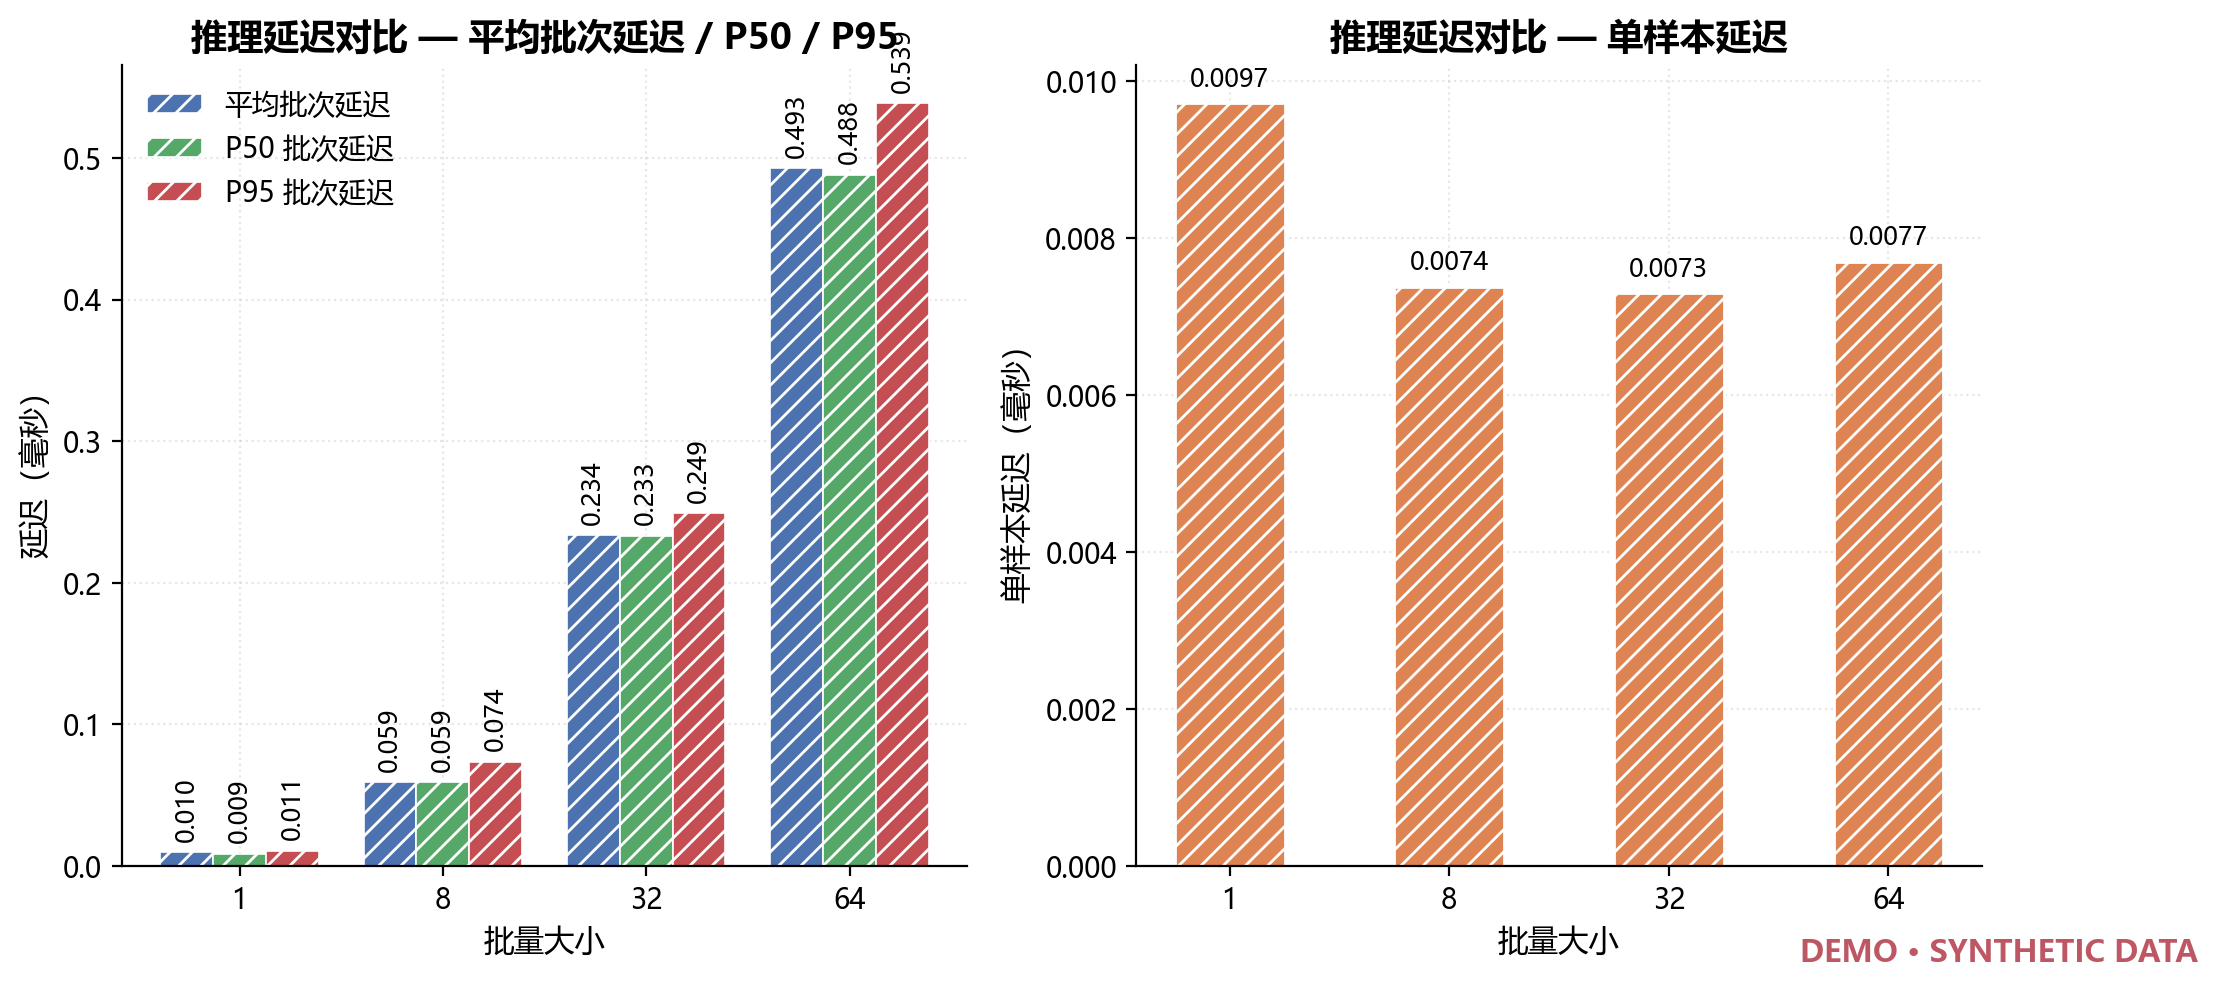
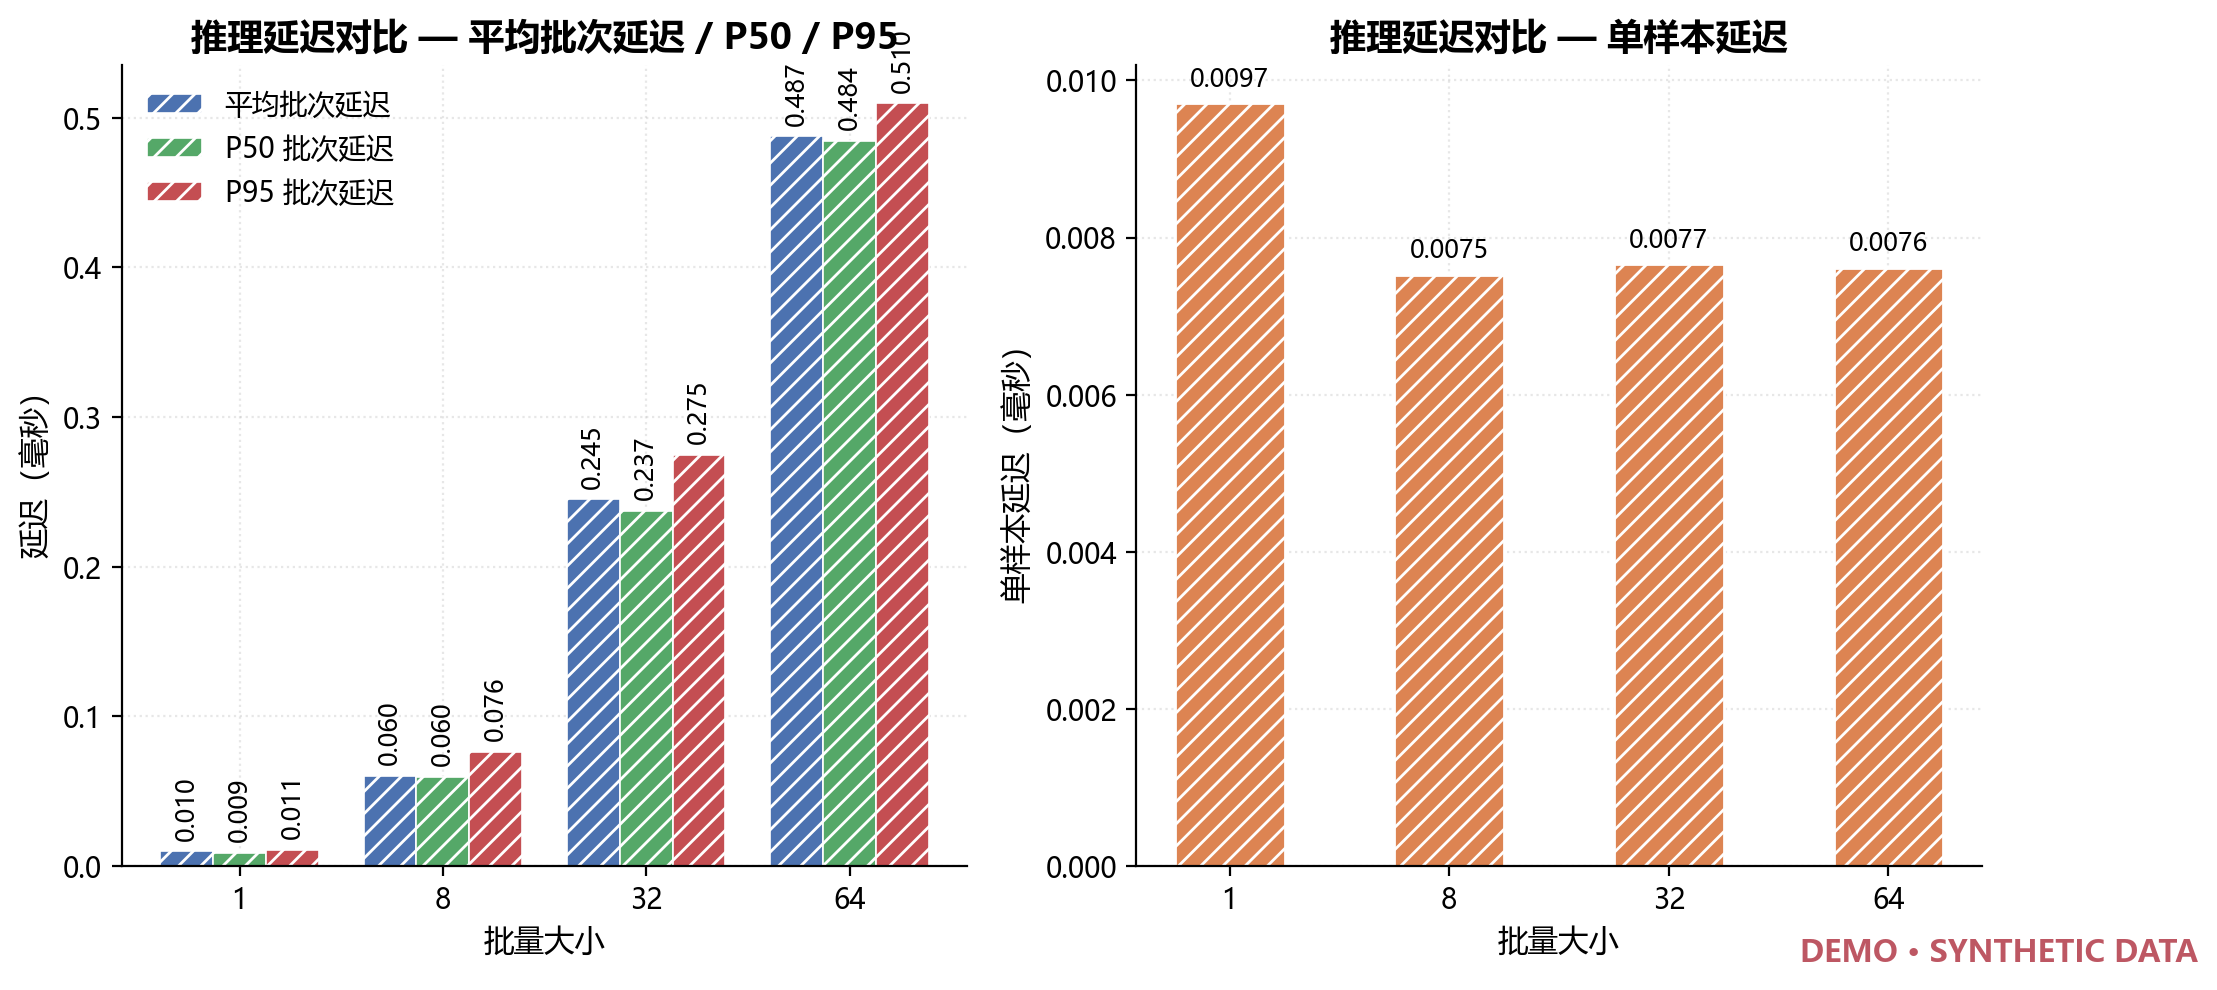
支持无 meta.json 的权重目录，词表大小改从权重推断
v1/v2 期的 akt_*、dkt_*、synth_* 共 23 个目录只有 model.pt 与 metrics.json，
没有知识点词表 sidecar。此前必须手工填 n_skills，填错要么加载失败、
要么形状恰好相同而语义错位。

- 适配器新增 _checkpoint_n_skills()：从 skill_emb.weight 形状读出词表大小
  （akt_forget_s2026 → 149，synth_akt_forget_s2026 → 60）。
- 配置写了 n_skills 就与权重比对，不一致直接报错。
- skill_map 的密集 id 越界时提前失败，不等到推理才炸。
- 新增 3 项测试；AKT 真实权重跑通（is_mock=False）。
- 文档补 §4.2 推断规则与 §8.4 AKT 实测；README 测试数更新为 286。
- 重新生成验收证据与交付 ZIP（140 文件，解压验证 5 项通过）。

diff --git a/examples/kt_forgetting_plugin.py b/examples/kt_forgetting_plugin.py
@@ -158,7 +158,7 @@ class KtForgettingModel:
     ``data``                    否       覆盖 metrics.json 记录的数据路径（跨机器迁移）
     ``backend``                 否       ``auto``（默认）/ ``dkt`` / ``bkt``
     ``skill_map``               否       ``{框架知识点标签: 模型密集 id}``，显式映射
-    ``n_skills``                否       词表大小；仅当实验目录没有 meta.json 时必填
+    ``n_skills``                否       词表大小；缺 meta.json 时默认从权重推断，填了则校验一致性
     ``multi_skill_policy``      否       ``error``（默认）/ ``mean`` / ``first``
     ``allow_order_only_time``   否       默认 false；true 时把无时间数据当作全零间隔
     ``allow_untrained``         否       默认 false；仅用于没有权重时验证本适配器通路，
@@ -289,13 +289,22 @@ class KtForgettingModel:
                 raise ModelValidationError(f"加载 {self.tag} 失败: {exc}") from exc
         else:
             # 少数实验目录只提交了 model.pt 与 metrics.json，没有 meta.json 词表
-            # （例如 v1/v2 的 akt_*、dkt_*、synth_*）。权重是真实的，但必须由调用方
-            # 给出 skill_map 与 n_skills 才能把输入映射进模型。
-            if not (self.skill_map and self.n_skills):
+            # （例如 v1/v2 的 akt_*、dkt_*、synth_*）。权重是真实的，但没有词表就
+            # 不知道原始 skill_id 对应哪个密集 id，必须由调用方给出 skill_map；
+            # 词表大小可以从权重里的 skill_emb 形状推断，不必手工填写。
+            if not self.skill_map:
                 raise ModelValidationError(
-                    f"{run_dir} 有 model.pt 但缺少 meta.json 词表。请在配置里同时提供 "
-                    "skill_map（知识点标签 → 密集 id）与 n_skills（词表大小），"
+                    f"{run_dir} 有 model.pt 但缺少 meta.json 词表。请提供 skill_map"
+                    "（知识点标签 → 密集 id）；n_skills 可省略，将从权重推断，"
                     "或改用自带 meta.json 的 tag（v3/v4 系列）"
+                )
+            inferred = self._checkpoint_n_skills(weights)
+            if self.n_skills is None:
+                self.n_skills = inferred
+            else:
+                _require(
+                    self.n_skills == inferred,
+                    f"配置的 n_skills={self.n_skills} 与权重里的词表大小 {inferred} 不一致",
                 )
             model, run_args, meta = self._build_from_run_dir(run_dir, untrained=False)
 
@@ -307,6 +316,7 @@ class KtForgettingModel:
                 )
             except Exception as exc:
                 raise ModelValidationError(f"加载温度校准失败: {exc}") from exc
+        self._validate_skill_map(int(meta["n_skills"]))
         self._model = model
         self._meta = meta
         self._backend = "dkt"
@@ -373,6 +383,36 @@ class KtForgettingModel:
                 raise ModelValidationError(f"加载 {run_dir / 'model.pt'} 失败: {exc}") from exc
             model.eval()
         return model, run_args, meta
+
+    def _checkpoint_n_skills(self, weights: Path) -> int:
+        """从权重里的知识点嵌入形状读出词表大小。
+
+        没有 ``meta.json`` 时这是唯一可靠的信息来源——按配置猜 n_skills 一旦猜错，
+        加载权重会直接报形状不匹配，或者更糟：恰好同形状而语义错位。
+        """
+        try:
+            state = self._torch.load(weights, map_location="cpu", weights_only=True)
+        except Exception as exc:
+            raise ModelValidationError(f"无法读取权重 {weights}: {exc}") from exc
+        _require(isinstance(state, dict), f"{weights} 不是 state_dict")
+        for key in ("skill_emb.weight", "skill_embedding.weight", "skills.weight"):
+            tensor = state.get(key)
+            if tensor is not None and getattr(tensor, "ndim", 0) == 2:
+                return int(tensor.shape[0])
+        raise ModelValidationError(
+            f"无法从 {weights} 推断词表大小（未找到 skill_emb.weight 等二维嵌入）；"
+            "请在配置里显式提供 n_skills"
+        )
+
+    def _validate_skill_map(self, n_skills: int) -> None:
+        if not self.skill_map:
+            return
+        illegal = {key: value for key, value in self.skill_map.items()
+                   if not 0 <= value < n_skills}
+        _require(
+            not illegal,
+            f"skill_map 中存在超出词表范围 0..{n_skills - 1} 的密集 id: {illegal}",
+        )
 
     @staticmethod
     def _read_json(path: Path, *, required: bool) -> dict:

diff --git a/tests/test_kt_forgetting_plugin.py b/tests/test_kt_forgetting_plugin.py
@@ -309,15 +309,46 @@ def test_untrained_flag_forces_mock_marking(tmp_path):
 
 
 @requires_repo
-def test_weight_directory_without_meta_needs_skill_map_and_size(tmp_path):
-    """有真实权重但没有 meta.json 时，必须由调用方补 skill_map + n_skills。"""
+def test_weight_directory_without_meta_needs_skill_map(tmp_path):
+    """有真实权重但没有 meta.json 时，必须由调用方补 skill_map。"""
     make_run_dir(tmp_path, with_meta=False, with_weights=True)
     base = {"repo": str(REPO), "tag": "synthetic_tag", "root": str(tmp_path / "exp"),
             "backend": "dkt"}
-    with pytest.raises(ModelValidationError, match="meta.json"):
+    with pytest.raises(ModelValidationError, match="skill_map"):
         KtForgettingModel(base)
-    with pytest.raises(ModelValidationError, match="meta.json"):
-        KtForgettingModel({**base, "skill_map": {"S000": 0}})  # 只有映射、没有词表大小
+
+
+@requires_repo
+def test_vocabulary_size_is_inferred_from_the_checkpoint():
+    """akt_* 没有 meta.json，但权重里的 skill_emb 形状能确定词表大小。"""
+    model = KtForgettingModel({
+        "repo": str(REPO), "tag": "akt_forget_s2026", "backend": "dkt",
+        "skill_map": {"S000": 0},
+    })
+    assert model.n_skills == 149
+    assert model.is_mock is False
+    assert "(untrained)" not in model.name
+    probability = model.predict([request((), record_id="a1")])[0].probability
+    assert 0.0 <= probability <= 1.0
+
+
+@requires_repo
+def test_declared_n_skills_must_match_the_checkpoint():
+    """配置写了 n_skills 就与权重比对，不一致必须报错而不是照单全收。"""
+    with pytest.raises(ModelValidationError, match="不一致"):
+        KtForgettingModel({
+            "repo": str(REPO), "tag": "akt_forget_s2026", "backend": "dkt",
+            "skill_map": {"S000": 0}, "n_skills": 30,
+        })
+
+
+@requires_repo
+def test_skill_map_beyond_the_vocabulary_is_rejected():
+    with pytest.raises(ModelValidationError, match="超出词表范围"):
+        KtForgettingModel({
+            "repo": str(REPO), "tag": "v4_controlled_dkt_forget_s2026", "backend": "dkt",
+            "skill_map": {"S000": 0, "S999": 40},
+        })
 
 
 @requires_repo

diff --git a/docs/KT_FORGETTING_INTEGRATION.md b/docs/KT_FORGETTING_INTEGRATION.md
@@ -100,7 +100,7 @@ python scripts/build_kt_forgetting_vocab.py \
 | `data` | 否 | 覆盖 `metrics.json` 里记录的数据路径（跨机器迁移用） |
 | `backend` | 否 | `auto`（默认）/ `dkt` / `bkt`；`auto` 看目录里有没有 `bkt_params.json` |
 | `skill_map` | 否 | `{框架知识点标签: 模型密集 id}`；不提供时复用训练仓库的 `resolve_skill` 做解析 |
-| `n_skills` | 否 | 词表大小；**仅当实验目录没有 `meta.json` 时必填**（见 §4.2） |
+| `n_skills` | 否 | 词表大小；缺 `meta.json` 时默认从权重推断，填了则校验一致性（见 §4.2） |
 | `multi_skill_policy` | 否 | `error`（默认）/ `mean` / `first`，见 §6 |
 | `allow_order_only_time` | 否 | 默认 `false`，见 §2 |
 | `allow_untrained` | 否 | 默认 `false`；**仅用于没有权重时验证适配器通路**，启用后 `is_mock` 强制为 `true` |
@@ -152,11 +152,16 @@ python evaluate.py all --run-dir outputs/real_model \
 | --- | :-: | :-: | --- |
 | `v3_*`、`v4_*`（含 MOOCCube） | 有 | 有 | 直接加载，无需额外配置 |
 | `repro_v2_*` | 有 | 有 | 直接加载 |
-| `akt_*`、`dkt_*`、`synth_*`（v1/v2 期） | 有 | **无** | 必须同时提供 `skill_map` 与 `n_skills` |
+| `akt_*`、`dkt_*`、`synth_*`（v1/v2 期） | 有 | **无** | 必须提供 `skill_map`；`n_skills` 可省略 |
 
 后一类不是缺权重，而是缺**词表 sidecar**：模型结构可以按 `metrics.json` 的 `args`
 重建、权重可以加载，但没有 `meta.json` 就不知道原始 `skill_id` 对应哪个密集 id。
-适配器此时要求显式给出映射，而不是猜一个。错误信息会点名这两个字段。
+适配器此时要求显式给出映射，而不是猜一个。
+
+词表大小**不必手填**：适配器直接从权重里 `skill_emb.weight` 的形状读出
+（实测 `akt_forget_s2026` → 149，`synth_akt_forget_s2026` → 60）。
+如果配置里同时写了 `n_skills`，会与权重里的值比对，不一致直接报错——
+按配置猜词表大小一旦猜错，要么加载失败，要么更糟：形状恰好相同而语义错位。
 
 ## 5. 选哪个模型：优先中文线代（MOOCCube v4）
 
@@ -260,7 +265,18 @@ python main.py --model plugin \
 > 只反映「模型没有见过这份数据」，恰恰说明**合成数据不能用来评价模型**。
 > 要得到有意义的精度，必须换真实 held-out CSV。此夹具的唯一用途是验证接线。
 
-### 8.4 尚未完成
+### 8.4 AKT（真实权重，目录内没有 `meta.json`）
+
+`akt_forget_s2026` 只有 `model.pt` 与 `metrics.json`，用来验证 §4.2 的路径：
+
+| 项目 | 结果 |
+| --- | --- |
+| `model_name` | `kt-forgetting:akt:akt_forget_s2026` |
+| `is_mock` | **False** |
+| `n_skills` | 从权重推断为 **149** |
+| 间隔敏感性 | gap 0/1 天 → 0.9654，7/30 天 → 0.8203 |
+
+### 8.5 尚未完成
 
 - **真实 held-out 数据上的精度与遗忘有效性**：需要清洗后的 MOOCCube 作答 CSV（本机 `data/` 为空）。
 - **多知识点题目的聚合口径**：等训练组定义。

diff --git a/README.md b/README.md
@@ -9,7 +9,7 @@ python evaluate.py all --overwrite     # 一条命令跑完全部评估流程
 
 | 项目 | 实测结果 |
 | --- | --- |
-| 自动化测试 | **283 项通过 / 0 失败**（`python -m pytest -q`） |
+| 自动化测试 | **286 项通过 / 0 失败**（`python -m pytest -q`） |
 | 静态检查 | **通过**（`python -m ruff check .`） |
 | 集成验收 | **18 项全部通过**（`python scripts/acceptance_evaluation.py`） |
 | 生成图表 | **9 张** PNG，DPI 200 |
@@ -347,7 +347,7 @@ python evaluate.py metrics --help          # 每个子命令都有独立帮助
 ## 自动化测试与验收
 
 ```bash
-python -m pytest -q                      # 283 项通过
+python -m pytest -q                      # 286 项通过
 python -m ruff check .                   # 静态检查通过
 python scripts/acceptance_evaluation.py  # 18 项集成验收
 ```
@@ -467,6 +467,7 @@ python evaluate.py all --run-dir outputs/real_model \
 | --- | --- |
 | BKT | ✅ 真实 EM 拟合参数，`is_mock=False`，概率 0.284~0.766 |
 | DKT + 遗忘机制 | ✅ 真实权重，`is_mock=False`；间隔 0→365 天概率 0.8565→0.8422（单调不增） |
+| AKT + 遗忘机制 | ✅ 真实权重，`is_mock=False`；目录无 `meta.json`，词表大小从权重推断为 149 |
 | MOOCCube 中文线代 DKT | ✅ 端到端跑通，22 个中文章节词表，`evaluate.py all` 六步无跳过 |
 
 模块一的图谱是中文线性代数，而 ASSISTments（英文初中代数）与 EdNet（英语）题目域对不上。
@@ -510,7 +511,7 @@ knowledge_tracing_test/
 ├── io_utils.py                 # 鲁凯宁：原子写出与指纹
 ├── dataset_converters.py       # 鲁凯宁：ASSISTments / EdNet 转换器
 │
-├── tests/                      # 283 项自动化测试（含 kt-forgetting 适配 36 项）
+├── tests/                      # 286 项自动化测试（含 kt-forgetting 适配 39 项）
 ├── docs/                       # 全部设计、接口、指标与交付文档
 ├── scripts/                    # 环境安装、验收、打包、kt-forgetting 词表生成
 ├── evidence/                   # 验收证据（含 evidence/evaluation/）

diff --git a/docs/EVALUATION_TEST_REPORT.md b/docs/EVALUATION_TEST_REPORT.md
@@ -1,6 +1,6 @@
 # 鸿蒙智学 · 知识追踪模型评估报告
 
-评估模块版本 **1.0.0**，报告生成时间（UTC）**2026-10-17T05:58:41.001429+00:00**。本报告由 `evaluation/report_generator.py` 从实际运行产物自动生成，所有数值均可追溯到对应模块输出的 JSON / CSV 文件，没有人手工填入的实验数据。
+评估模块版本 **1.0.0**，报告生成时间（UTC）**2026-10-19T16:06:33.946753+00:00**。本报告由 `evaluation/report_generator.py` 从实际运行产物自动生成，所有数值均可追溯到对应模块输出的 JSON / CSV 文件，没有人手工填入的实验数据。
 
 ## 1. 测试任务概述
 
@@ -169,10 +169,10 @@
 
 | 批量大小 | 批次数 | 样本数 | 平均批次延迟(ms) | P50(ms) | P95(ms) | 单样本平均(ms) | 吞吐量(样本/秒) |
 | ---: | ---: | ---: | ---: | ---: | ---: | ---: | ---: |
-| 1 | 768 | 768 | 0.010 | 0.009 | 0.011 | 0.010 | 102932.5 |
-| 8 | 96 | 768 | 0.059 | 0.059 | 0.074 | 0.007 | 135483.2 |
-| 32 | 24 | 768 | 0.234 | 0.233 | 0.249 | 0.007 | 137042.5 |
-| 64 | 12 | 768 | 0.493 | 0.488 | 0.539 | 0.008 | 129909.7 |
+| 1 | 768 | 768 | 0.010 | 0.009 | 0.011 | 0.010 | 103005.7 |
+| 8 | 96 | 768 | 0.060 | 0.060 | 0.076 | 0.008 | 132814.5 |
+| 32 | 24 | 768 | 0.245 | 0.237 | 0.275 | 0.008 | 130581.2 |
+| 64 | 12 | 768 | 0.487 | 0.484 | 0.510 | 0.008 | 131288.8 |
 
 > 计时口径：批次延迟为单次 adapter.predict(batch) 的墙钟耗时（time.perf_counter）；单样本延迟为批次延迟除以该批次样本数；P50/P95 对批次延迟序列取线性插值百分位；吞吐量为被计时样本数除以被计时的总耗时。
 
@@ -261,8 +261,8 @@
 
 | 项目 | 数量 |
 | --- | ---: |
-| 用例总数 | 283 |
-| 通过 | 283 |
+| 用例总数 | 286 |
+| 通过 | 286 |
 | 失败 | 0 |
 | 错误 | 0 |
 | 跳过 | 0 |

diff --git a/evidence/evaluation/reports/evaluation_report.md b/evidence/evaluation/reports/evaluation_report.md
@@ -1,6 +1,6 @@
 # 鸿蒙智学 · 知识追踪模型评估报告
 
-评估模块版本 **1.0.0**，报告生成时间（UTC）**2026-10-17T05:58:40.947897+00:00**。本报告由 `evaluation/report_generator.py` 从实际运行产物自动生成，所有数值均可追溯到对应模块输出的 JSON / CSV 文件，没有人手工填入的实验数据。
+评估模块版本 **1.0.0**，报告生成时间（UTC）**2026-10-19T16:06:33.909851+00:00**。本报告由 `evaluation/report_generator.py` 从实际运行产物自动生成，所有数值均可追溯到对应模块输出的 JSON / CSV 文件，没有人手工填入的实验数据。
 
 ## 1. 测试任务概述
 
@@ -169,10 +169,10 @@
 
 | 批量大小 | 批次数 | 样本数 | 平均批次延迟(ms) | P50(ms) | P95(ms) | 单样本平均(ms) | 吞吐量(样本/秒) |
 | ---: | ---: | ---: | ---: | ---: | ---: | ---: | ---: |
-| 1 | 768 | 768 | 0.010 | 0.009 | 0.011 | 0.010 | 102932.5 |
-| 8 | 96 | 768 | 0.059 | 0.059 | 0.074 | 0.007 | 135483.2 |
-| 32 | 24 | 768 | 0.234 | 0.233 | 0.249 | 0.007 | 137042.5 |
-| 64 | 12 | 768 | 0.493 | 0.488 | 0.539 | 0.008 | 129909.7 |
+| 1 | 768 | 768 | 0.010 | 0.009 | 0.011 | 0.010 | 103005.7 |
+| 8 | 96 | 768 | 0.060 | 0.060 | 0.076 | 0.008 | 132814.5 |
+| 32 | 24 | 768 | 0.245 | 0.237 | 0.275 | 0.008 | 130581.2 |
+| 64 | 12 | 768 | 0.487 | 0.484 | 0.510 | 0.008 | 131288.8 |
 
 > 计时口径：批次延迟为单次 adapter.predict(batch) 的墙钟耗时（time.perf_counter）；单样本延迟为批次延迟除以该批次样本数；P50/P95 对批次延迟序列取线性插值百分位；吞吐量为被计时样本数除以被计时的总耗时。
 
@@ -261,8 +261,8 @@
 
 | 项目 | 数量 |
 | --- | ---: |
-| 用例总数 | 283 |
-| 通过 | 283 |
+| 用例总数 | 286 |
+| 通过 | 286 |
 | 失败 | 0 |
 | 错误 | 0 |
 | 跳过 | 0 |
